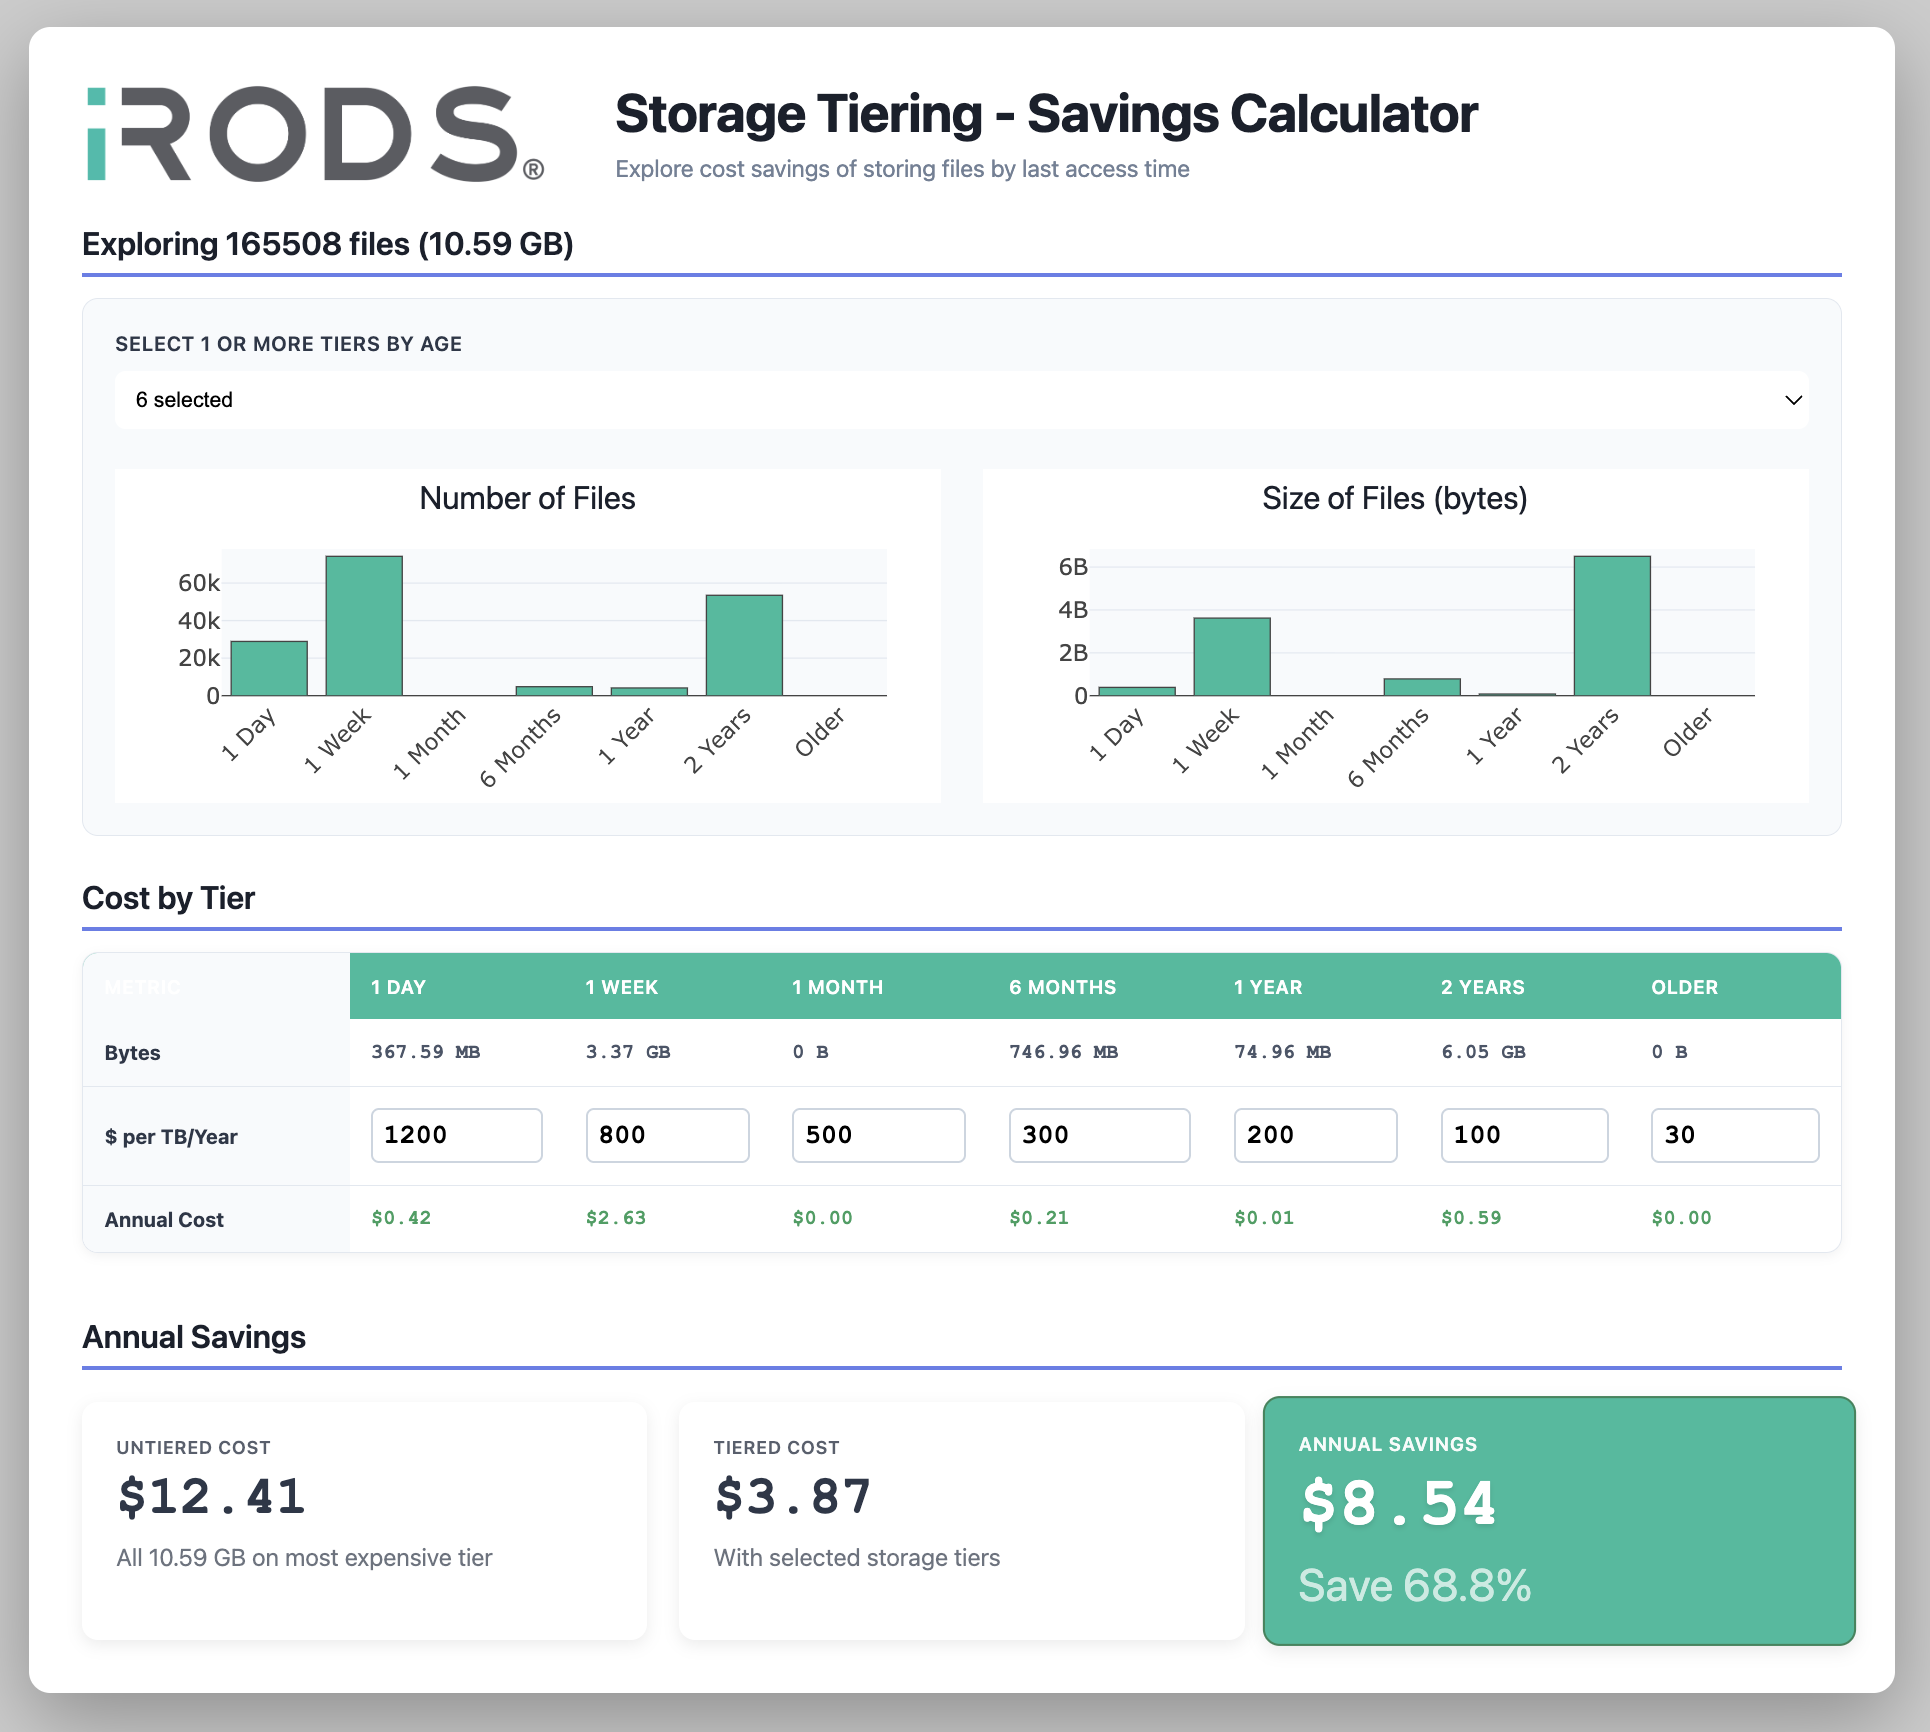
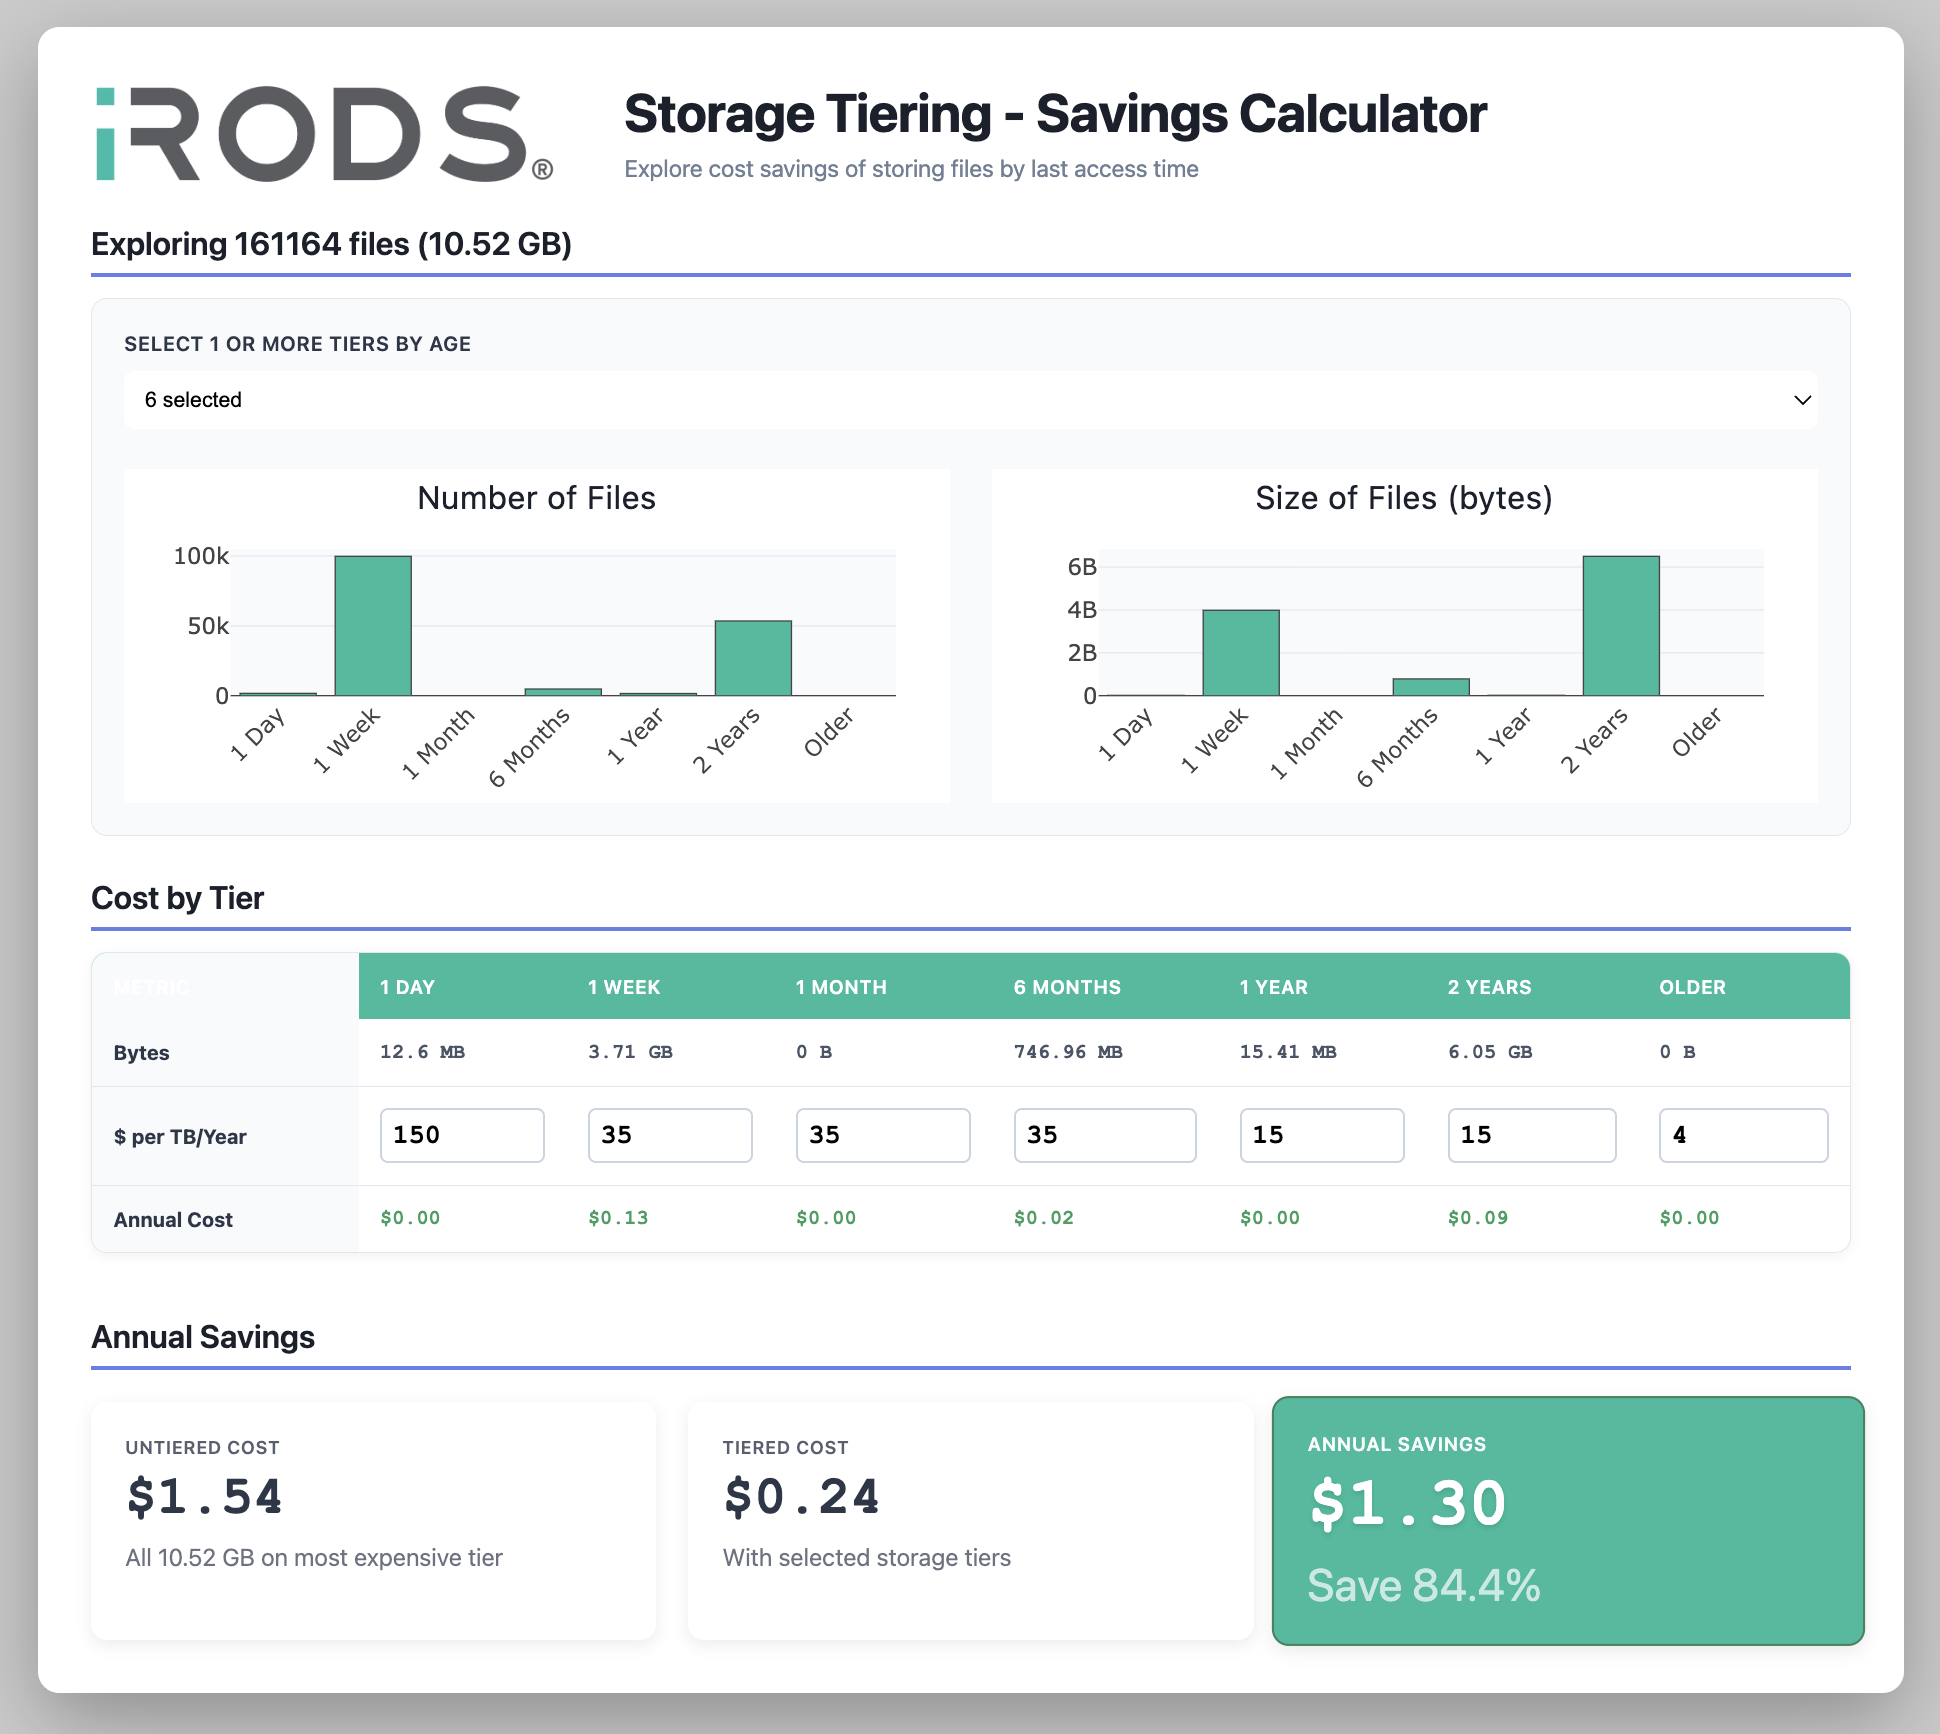
update with realistic pricing

diff --git a/index.html b/index.html
@@ -383,17 +383,17 @@ python3 -m http.server
 
       // Default pricing per TB per year (in dollars or euros)
       default_pricing = {
-          'oneminute': 1200,
-          'halfhour': 1200,
-          'onehour': 1200,
-          'oneday': 1200,
-          'oneweek': 800,
-          'onemonth': 500,
-          'sixmonths': 300,
-          'oneyear': 200,
-          'twoyears': 100,
-          'fiveyears': 50,
-          'older': 30
+          'oneminute': 150,
+          'halfhour': 150,
+          'onehour': 150,
+          'oneday': 150,
+          'oneweek': 35,
+          'onemonth': 35,
+          'sixmonths': 35,
+          'oneyear': 15,
+          'twoyears': 15,
+          'fiveyears': 4,
+          'older': 4
       }
 
       function get_binned_data() {
